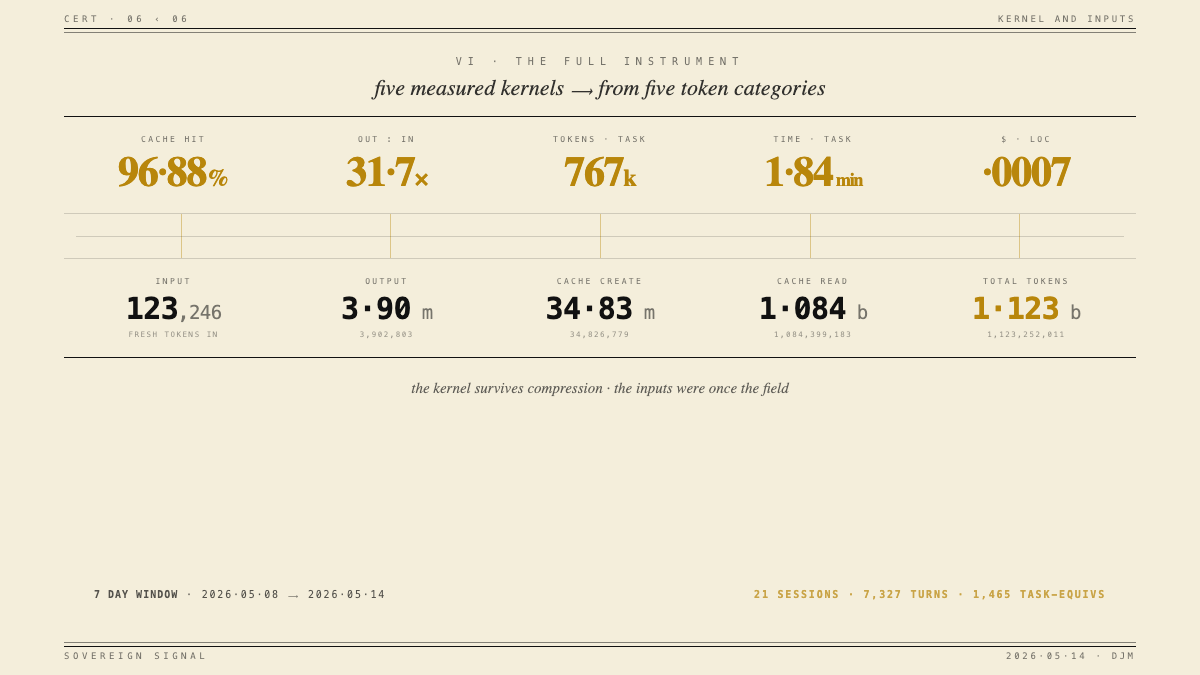
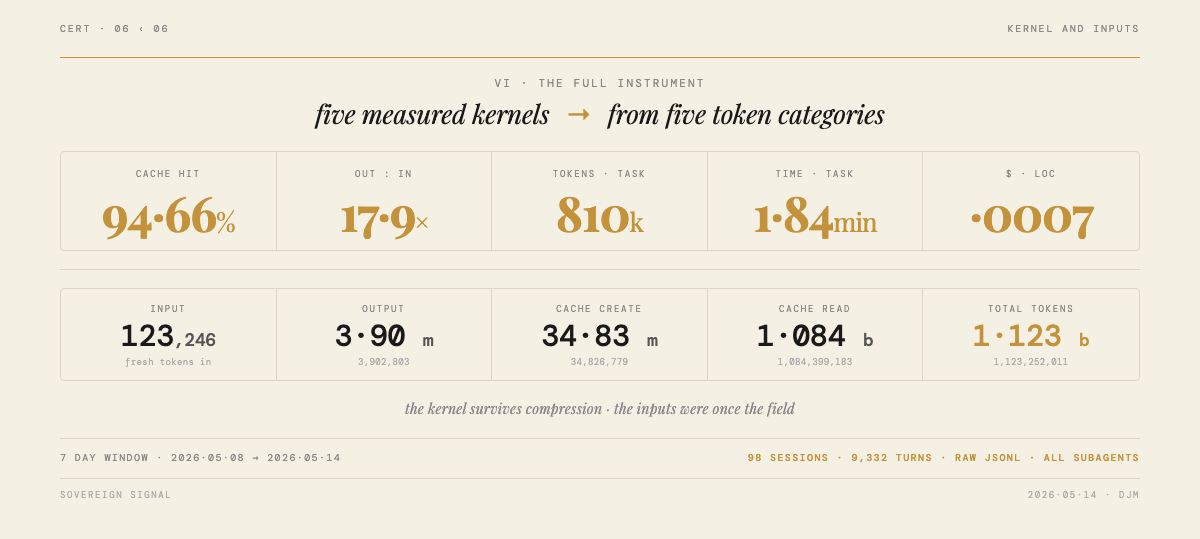
Update card_06 with raw JSONL numbers
- 94·66% cache (was 96·88%)
- 17·9× out:in (was 31·7×)
- 810k tokens/task (was 767k)
- Footer: 98 sessions · 9,332 turns · Raw JSONL · All Subagents
- Add card_06_combined.html as source file

diff --git a/img/benchmarks/card_06_combined.html b/img/benchmarks/card_06_combined.html
@@ -1,0 +1,261 @@
+<!doctype html>
+<html lang="en">
+<head>
+  <meta charset="utf-8">
+  <style>
+    @import url('https://fonts.googleapis.com/css2?family=Playfair+Display:ital,wght@0,400;0,700;1,400&family=DM+Mono:wght@300;400;500&display=swap');
+    * { box-sizing: border-box; margin: 0; padding: 0; }
+    body {
+      background: #f5f0e4;
+      font-family: 'DM Mono', ui-monospace, monospace;
+      width: 1200px;
+      padding: 0;
+      color: #1a1a1a;
+    }
+    .card {
+      width: 1200px;
+      padding: 22px 60px 28px;
+      background: #f5f0e4;
+    }
+
+    /* Top bar */
+    .top-bar {
+      display: flex;
+      justify-content: space-between;
+      align-items: center;
+      font-size: 10px;
+      letter-spacing: .18em;
+      text-transform: uppercase;
+      color: #888;
+      margin-bottom: 22px;
+    }
+
+    /* Title block */
+    .title-block {
+      text-align: center;
+      margin-bottom: 20px;
+      border-top: 1px solid #c4923a;
+      padding-top: 18px;
+    }
+    .title-kicker {
+      font-size: 11px;
+      letter-spacing: .2em;
+      text-transform: uppercase;
+      color: #888;
+      margin-bottom: 6px;
+    }
+    .title-main {
+      font-family: 'Playfair Display', Georgia, serif;
+      font-style: italic;
+      font-size: 26px;
+      color: #1a1a1a;
+      letter-spacing: -0.01em;
+    }
+    .title-arr { color: #c4923a; margin: 0 10px; font-style: normal; }
+
+    /* Kernels row */
+    .kernels {
+      display: grid;
+      grid-template-columns: repeat(5, 1fr);
+      gap: 0;
+      margin-bottom: 14px;
+      border: 1px solid #ddd6c8;
+      border-radius: 4px;
+      overflow: hidden;
+    }
+    .kernel-cell {
+      padding: 16px 10px 14px;
+      text-align: center;
+      border-right: 1px solid #ddd6c8;
+    }
+    .kernel-cell:last-child { border-right: 0; }
+    .k-label {
+      font-size: 9px;
+      letter-spacing: .2em;
+      text-transform: uppercase;
+      color: #888;
+      margin-bottom: 8px;
+    }
+    .k-val {
+      font-family: 'Playfair Display', Georgia, serif;
+      font-size: 48px;
+      font-weight: 700;
+      color: #c4923a;
+      line-height: 1;
+      letter-spacing: -0.02em;
+    }
+    .k-val .unit { font-size: 26px; font-weight: 400; }
+
+    /* Divider */
+    .divider {
+      height: 1px;
+      background: #ddd6c8;
+      margin: 18px 0;
+    }
+
+    /* Raw tokens row */
+    .raw-tokens {
+      display: grid;
+      grid-template-columns: repeat(5, 1fr);
+      gap: 0;
+      border: 1px solid #ddd6c8;
+      border-radius: 4px;
+      overflow: hidden;
+      margin-bottom: 18px;
+    }
+    .raw-cell {
+      padding: 14px 10px 12px;
+      text-align: center;
+      border-right: 1px solid #ddd6c8;
+    }
+    .raw-cell:last-child { border-right: 0; }
+    .r-label {
+      font-size: 9px;
+      letter-spacing: .2em;
+      text-transform: uppercase;
+      color: #888;
+      margin-bottom: 6px;
+    }
+    .r-num {
+      font-size: 30px;
+      font-weight: 500;
+      color: #1a1a1a;
+      line-height: 1;
+      letter-spacing: -0.01em;
+    }
+    .r-num .m { font-size: 18px; color: #555; }
+    .r-sub {
+      font-size: 9px;
+      color: #aaa;
+      margin-top: 5px;
+      letter-spacing: .04em;
+    }
+
+    /* Footer quote */
+    .footer-quote {
+      text-align: center;
+      font-family: 'Playfair Display', Georgia, serif;
+      font-style: italic;
+      font-size: 14px;
+      color: #888;
+      margin-bottom: 20px;
+      letter-spacing: 0.02em;
+    }
+
+    /* Bottom stats bar */
+    .bottom-bar {
+      display: flex;
+      justify-content: space-between;
+      align-items: center;
+      border-top: 1px solid #ddd6c8;
+      padding-top: 12px;
+      margin-bottom: 14px;
+    }
+    .bb-left {
+      font-size: 10px;
+      letter-spacing: .14em;
+      text-transform: uppercase;
+      color: #888;
+    }
+    .bb-right {
+      font-size: 10px;
+      letter-spacing: .14em;
+      text-transform: uppercase;
+      color: #c4923a;
+      font-weight: 500;
+    }
+
+    /* Final footer */
+    .final-footer {
+      display: flex;
+      justify-content: space-between;
+      font-size: 9px;
+      letter-spacing: .18em;
+      text-transform: uppercase;
+      color: #aaa;
+      border-top: 1px solid #ddd6c8;
+      padding-top: 10px;
+    }
+  </style>
+</head>
+<body>
+<div class="card">
+
+  <div class="top-bar">
+    <span>CERT · 06 ‹ 06</span>
+    <span>KERNEL AND INPUTS</span>
+  </div>
+
+  <div class="title-block">
+    <div class="title-kicker">VI · The Full Instrument</div>
+    <div class="title-main">five measured kernels <span class="title-arr">→</span> from five token categories</div>
+  </div>
+
+  <div class="kernels">
+    <div class="kernel-cell">
+      <div class="k-label">Cache Hit</div>
+      <div class="k-val">94·66<span class="unit">%</span></div>
+    </div>
+    <div class="kernel-cell">
+      <div class="k-label">Out : In</div>
+      <div class="k-val">17·9<span class="unit">×</span></div>
+    </div>
+    <div class="kernel-cell">
+      <div class="k-label">Tokens · Task</div>
+      <div class="k-val">810<span class="unit">k</span></div>
+    </div>
+    <div class="kernel-cell">
+      <div class="k-label">Time · Task</div>
+      <div class="k-val">1·84<span class="unit">min</span></div>
+    </div>
+    <div class="kernel-cell">
+      <div class="k-label">$ · LOC</div>
+      <div class="k-val">·0007</div>
+    </div>
+  </div>
+
+  <div class="divider"></div>
+
+  <div class="raw-tokens">
+    <div class="raw-cell">
+      <div class="r-label">Input</div>
+      <div class="r-num">123<span class="m">,246</span></div>
+      <div class="r-sub">fresh tokens in</div>
+    </div>
+    <div class="raw-cell">
+      <div class="r-label">Output</div>
+      <div class="r-num">3·90 <span class="m">m</span></div>
+      <div class="r-sub">3,902,803</div>
+    </div>
+    <div class="raw-cell">
+      <div class="r-label">Cache Create</div>
+      <div class="r-num">34·83 <span class="m">m</span></div>
+      <div class="r-sub">34,826,779</div>
+    </div>
+    <div class="raw-cell">
+      <div class="r-label">Cache Read</div>
+      <div class="r-num">1·084 <span class="m">b</span></div>
+      <div class="r-sub">1,084,399,183</div>
+    </div>
+    <div class="raw-cell">
+      <div class="r-label">Total Tokens</div>
+      <div class="r-num" style="color:#c4923a">1·123 <span class="m" style="color:#c4923a">b</span></div>
+      <div class="r-sub">1,123,252,011</div>
+    </div>
+  </div>
+
+  <div class="footer-quote">the kernel survives compression · the inputs were once the field</div>
+
+  <div class="bottom-bar">
+    <div class="bb-left">7 Day Window · 2026·05·08 → 2026·05·14</div>
+    <div class="bb-right">98 Sessions · 9,332 Turns · Raw JSONL · All Subagents</div>
+  </div>
+
+  <div class="final-footer">
+    <span>Sovereign Signal</span>
+    <span>2026·05·14 · DJM</span>
+  </div>
+
+</div>
+</body>
+</html>